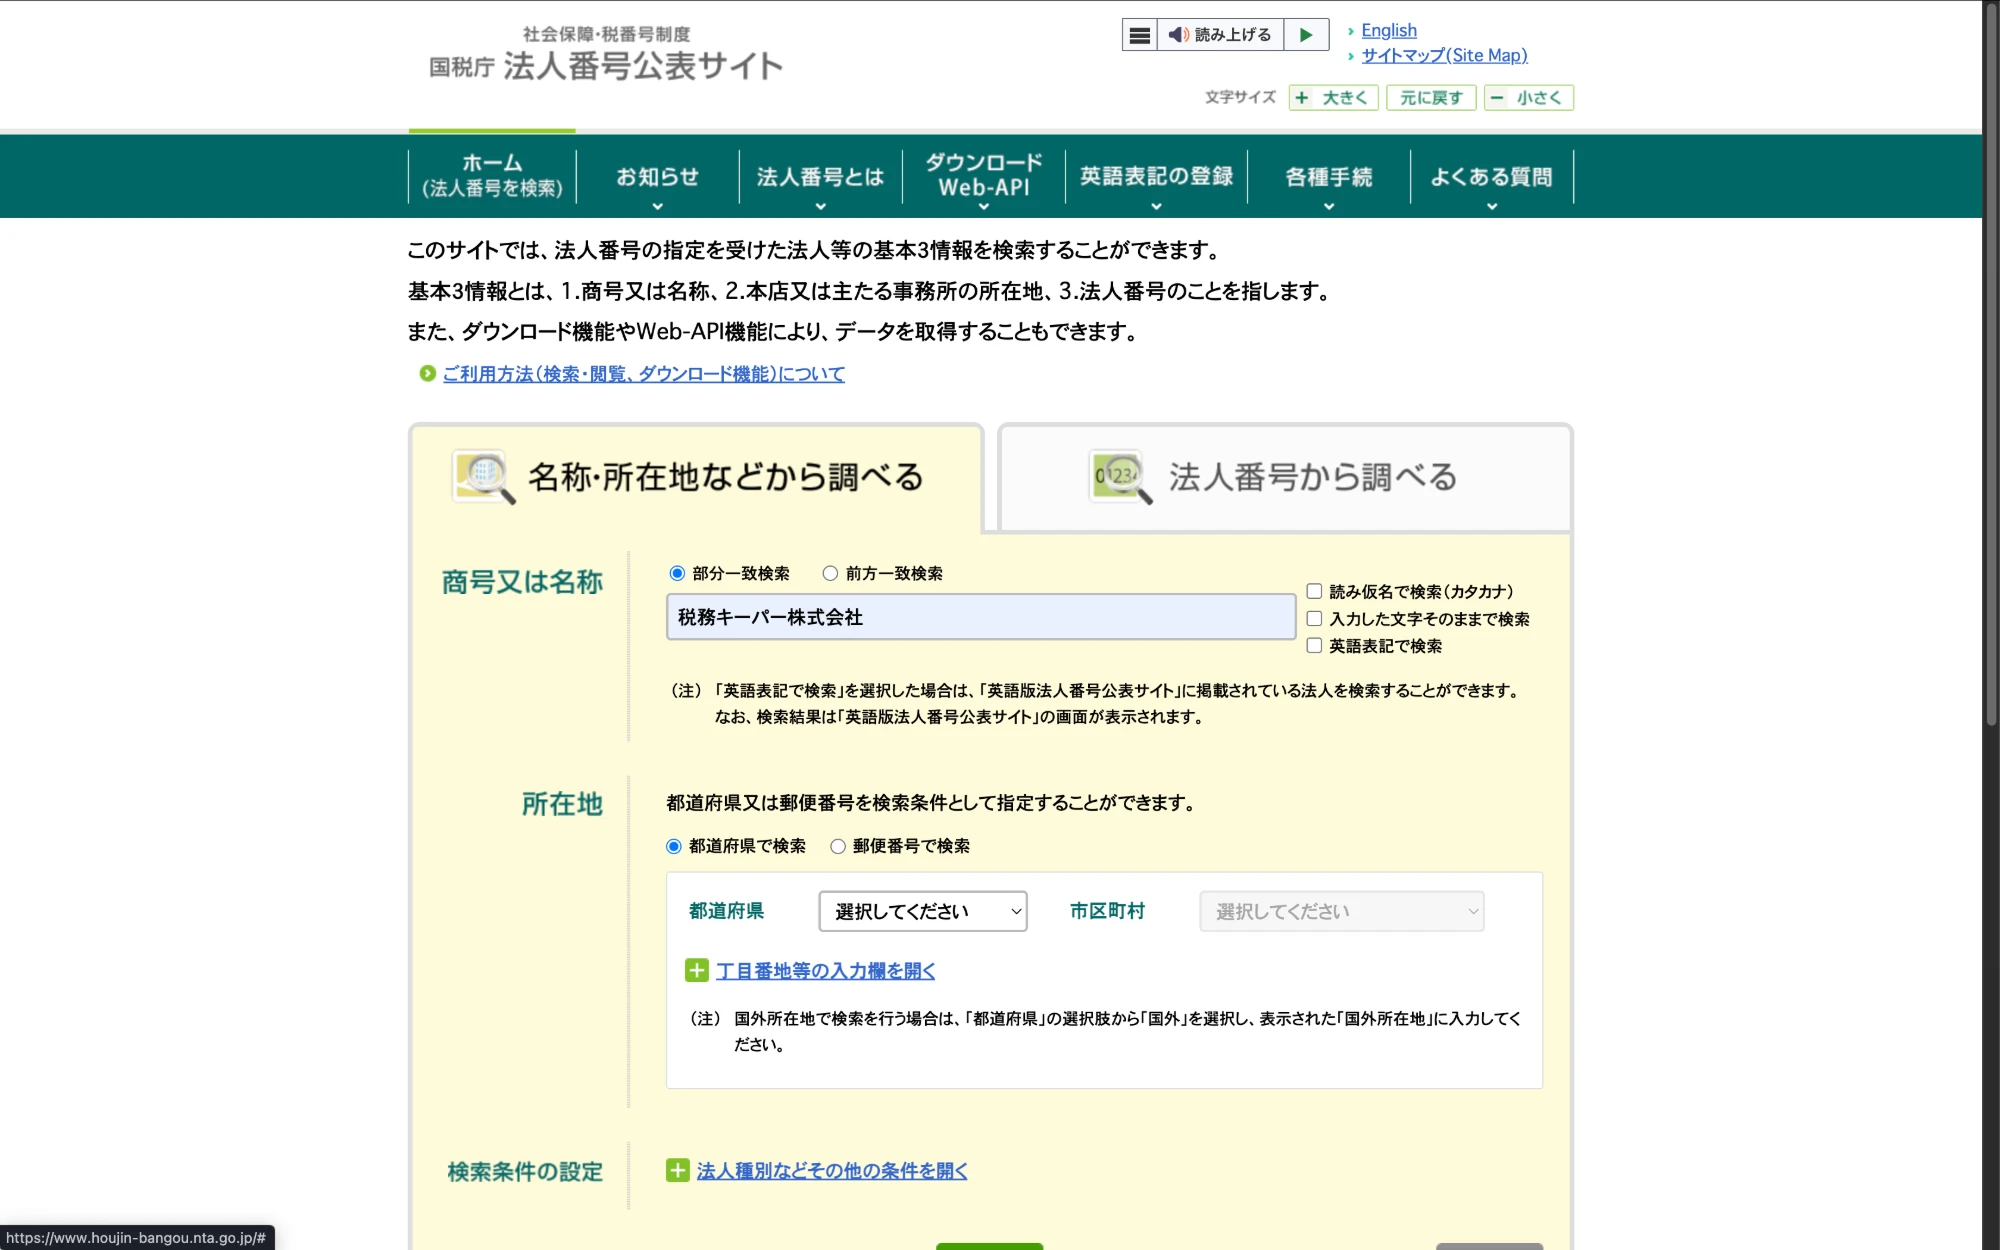
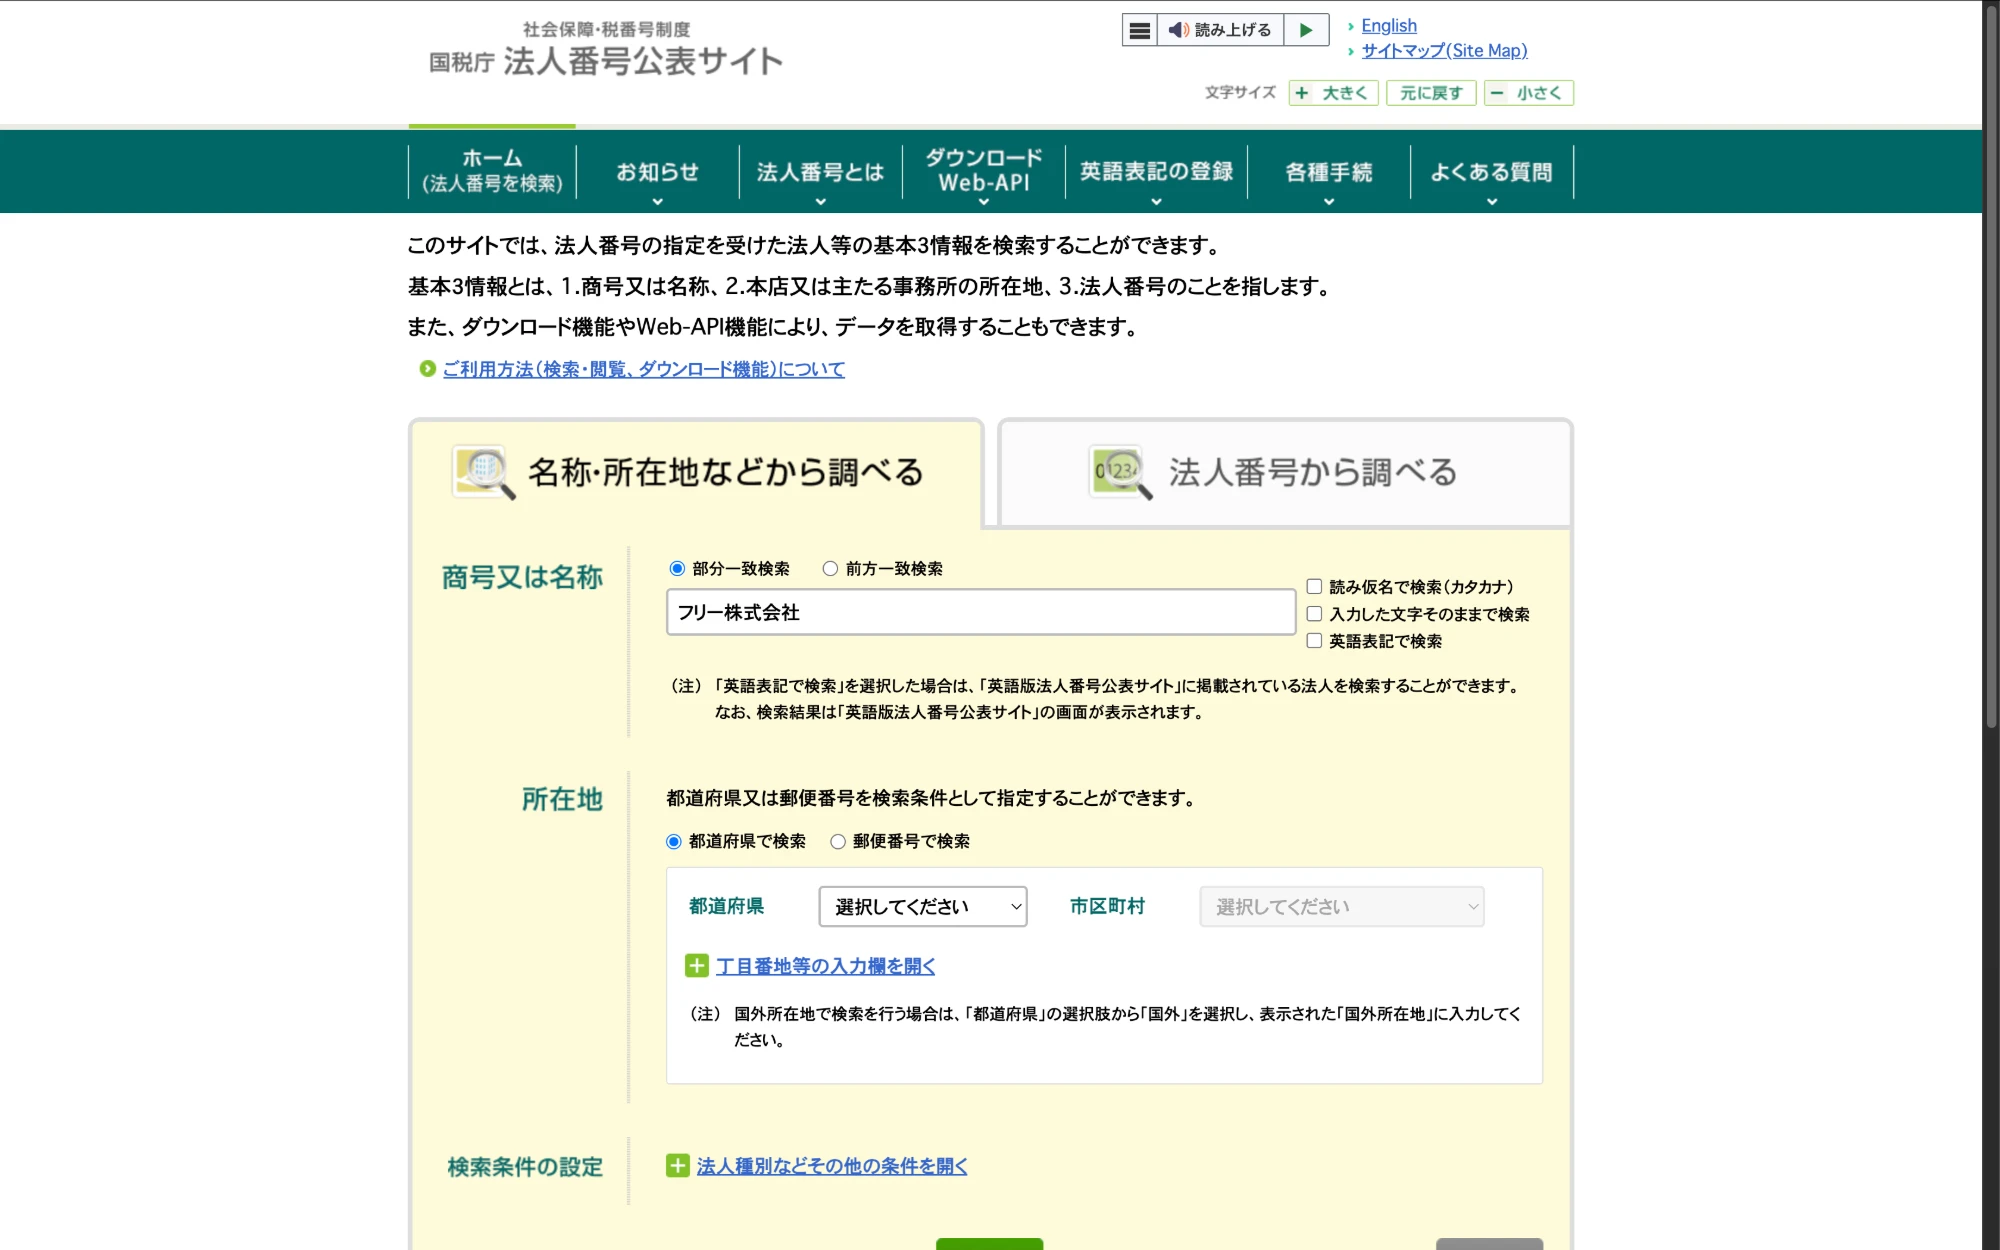
A売上 法人番号検索の例をフリー株式会社版に差し替え

diff --git a/index.html b/index.html
@@ -1940,7 +1940,7 @@ const data = [
                 "請求書を作る前に、まず相手先を取引先マスタに登録します（一度登録すれば次回からは選ぶだけ）。よく取引する相手は先に登録しておくとスムーズです。",
                 "freee会計の［取引先］→『取引先を登録』（新規作成）を開きます。",
                 "①法人番号で自動入力：『法人情報を調べて自動で入力する』をクリックし、法人番号 または 商号・名称で『検索』→該当先を『選択』→『入力する』。住所・正式名称が自動で入ります。",
-                "【法人番号がわからないとき＝国税庁サイトで調べる】相手の法人番号が手元にないときは、国税庁の『法人番号公表サイト』で会社名から調べられます。①ブラウザで『法人番号検索サイト』と検索（下の画像①）→②検索結果から『国税庁 法人番号公表サイト（houjin-bangou.nta.go.jp）』を開く（下の画像②）→③『名称・所在地などから調べる』タブで商号又は名称（例：税務キーパー株式会社）を入れて検索（下の画像③）→④検索結果一覧に表示される13桁の法人番号を確認します（例：6011001159091。下の画像④）。この番号をfreeeの法人番号検索に入れれば、住所・正式名称を自動入力できます。",
+                "【法人番号がわからないとき＝国税庁サイトで調べる】相手の法人番号が手元にないときは、国税庁の『法人番号公表サイト』で会社名から調べられます。①ブラウザで『法人番号検索サイト』と検索（下の画像①）→②検索結果から『国税庁 法人番号公表サイト（houjin-bangou.nta.go.jp）』を開く（下の画像②）→③『名称・所在地などから調べる』タブで商号又は名称（例：フリー株式会社）を入れて検索（下の画像③）→④検索結果一覧に表示される13桁の法人番号を確認します（例：『フリー株式会社』は56件ヒットするので、目的の会社を見分けて13桁の法人番号7010401100770を確認。下の画像④）。この番号をfreeeの法人番号検索に入れれば、住所・正式名称を自動入力できます。",
                 "②インボイス登録番号：相手が適格請求書発行事業者なら、登録番号（T＋13桁）を入力します。国税庁『適格請求書発行事業者公表サイト』で確認できます。",
                 "③敬称（宛名）：正式名称の末尾に付く敬称を『御中／様／（空白）』から選びます。担当者宛なら担当者名＋『様』を設定します（請求書の宛名が『◯◯株式会社 御中』『△△様』になります）。",
                 "<a href=\"https://support.freee.co.jp/hc/ja/articles/360028278932\" target=\"_blank\" rel=\"noopener\" class=\"tool-link\" style=\"color:#16A34A;text-decoration:underline;\">freee会計で取引先を登録する</a>",